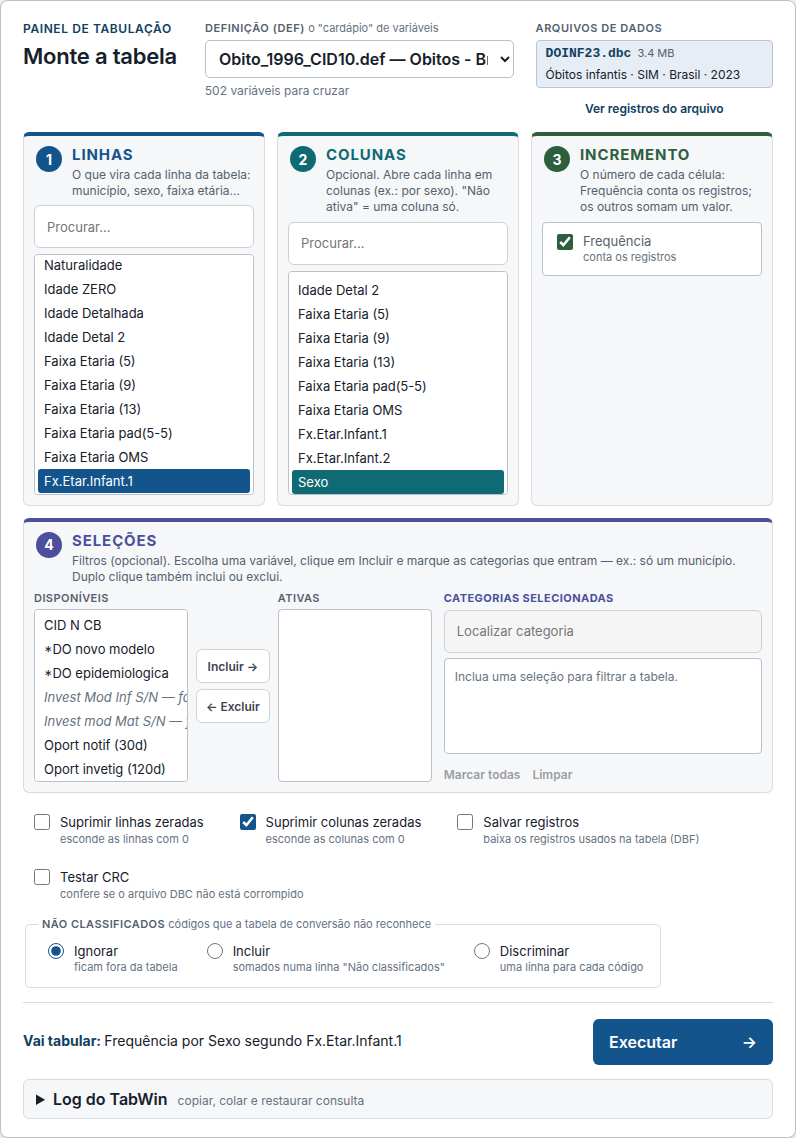
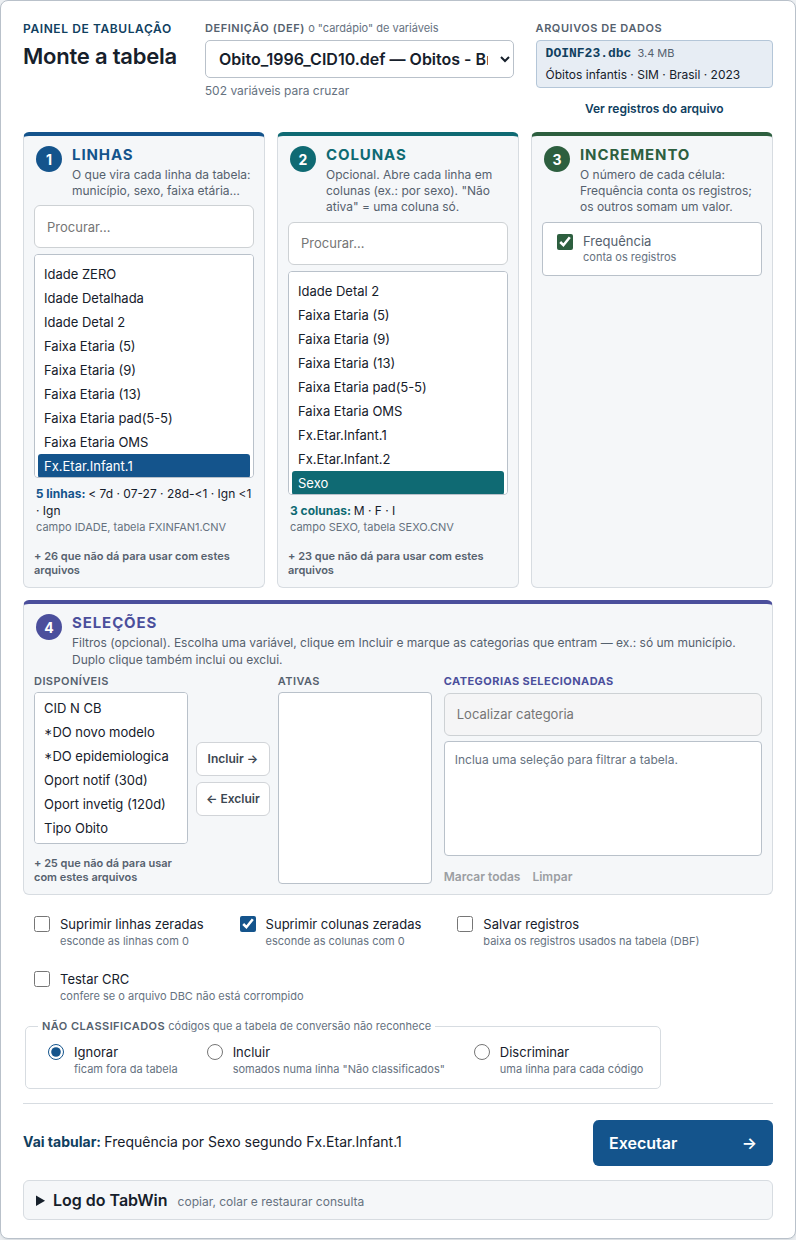
Painel mais claro: o que cada opção vira, sem as indisponíveis no meio
- Embaixo de Linhas e Colunas, as categorias que a escolha gera ("5
  linhas: < 7d · 07-27 · 28d-<1 …", campo IDADE, tabela FXINFAN1.CNV):
  nomes do DEF como "Fx.Etar.Infant.1" ou "Oport invetig (120d)" não
  diziam nada a quem nunca os viu.
- Passar o mouse sobre uma opção mostra o mesmo (amostra guardada por
  tabela, para não pesar a cada CNV que chega).
- Opções que não dá para usar com os arquivos abertos saem das listas
  (Linhas, Colunas, Seleções); "+ N que não dá para usar" mostra, num
  grupo no fim, quais são e por quê.
- Manual e figuras atualizados; as capturas esperam as CNVs terminarem.

diff --git a/apps/web/src/painel-ui.ts b/apps/web/src/painel-ui.ts
@@ -166,6 +166,21 @@ export function criarPainel(raiz: HTMLElement, deps: PainelDeps): Painel {
   const colunasBusca = el('input', { type: 'search', className: 'painel-busca', placeholder: 'Procurar…', ariaLabel: 'Procurar nas colunas' });
   const colunasLista = el('select', { id: 'painel-colunas', size: 9, ariaLabel: 'Colunas' });
   const incrementosLista = el('div', { id: 'painel-incrementos', className: 'painel-checklist', role: 'group', ariaLabel: 'Incremento' });
+  // Embaixo de Linhas e Colunas: o que a escolha vai virar ("5 linhas: < 7d ·
+  // 07-27 · …"). Um nome do DEF como "Fx.Etar.Infant.1" não diz nada a quem
+  // nunca o viu; as categorias dizem.
+  const previaLinhas = el('p', { className: 'painel-previa', id: 'painel-previa-linhas', ariaLive: 'polite' });
+  const previaColunas = el('p', { className: 'painel-previa', id: 'painel-previa-colunas', ariaLive: 'polite' });
+  /**
+   * Opções que não dá para usar com estes arquivos (campo que não existe, CNV
+   * que não foi aberta) ficam fora das listas até a pessoa pedir: misturadas,
+   * em cinza e com o motivo cortado, só confundiam.
+   */
+  let mostrarIndisponiveis = false;
+  const botaoIndisponiveis = (): HTMLButtonElement => el('button', { type: 'button', className: 'text-button painel-indisponiveis' });
+  const indisponiveisLinhas = botaoIndisponiveis();
+  const indisponiveisColunas = botaoIndisponiveis();
+  const indisponiveisSelecoes = botaoIndisponiveis();
 
   const disponiveisLista = el('select', { id: 'painel-selecoes-disponiveis', size: 6, ariaLabel: 'Seleções disponíveis' });
   const ativasLista = el('select', { id: 'painel-selecoes-ativas', size: 6, ariaLabel: 'Seleções ativas' });
@@ -215,15 +230,15 @@ export function criarPainel(raiz: HTMLElement, deps: PainelDeps): Painel {
   );
 
   const linhas = bloco('1', 'Linhas', 'O que vira cada linha da tabela: município, sexo, faixa etária…', 'linhas');
-  linhas.corpo.append(linhasBusca, linhasLista);
+  linhas.corpo.append(linhasBusca, linhasLista, previaLinhas, indisponiveisLinhas);
   const colunas = bloco('2', 'Colunas', 'Opcional. Abre cada linha em colunas (ex.: por sexo). "Não ativa" = uma coluna só.', 'colunas');
-  colunas.corpo.append(colunasBusca, colunasLista);
+  colunas.corpo.append(colunasBusca, colunasLista, previaColunas, indisponiveisColunas);
   const incremento = bloco('3', 'Incremento', 'O número de cada célula: Frequência conta os registros; os outros somam um valor.', 'incremento');
   incremento.corpo.append(incrementosLista);
   const selecoes = bloco('4', 'Seleções', 'Filtros (opcional). Escolha uma variável, clique em Incluir e marque as categorias que entram — ex.: só um município. Duplo clique também inclui ou exclui.', 'selecoes');
   selecoes.corpo.append(
     el('div', { className: 'painel-selecoes-grade' },
-      el('label', { className: 'painel-sublista' }, el('span', {}, 'Disponíveis'), disponiveisLista),
+      el('div', { className: 'painel-sublista' }, el('label', { htmlFor: 'painel-selecoes-disponiveis' }, 'Disponíveis'), disponiveisLista, indisponiveisSelecoes),
       el('div', { className: 'painel-selecoes-botoes' }, incluirBotao, excluirBotao),
       el('label', { className: 'painel-sublista' }, el('span', {}, 'Ativas'), ativasLista),
     ),
@@ -300,18 +315,83 @@ export function criarPainel(raiz: HTMLElement, deps: PainelDeps): Painel {
     return eixo.disponivel ? eixo.label : `${eixo.label} — ${eixo.motivo ?? 'indisponível'}`;
   }
 
-  function preencherLista(lista: HTMLSelectElement, eixos: readonly PainelEixo[], escolhido: string | null, filtro: string, naoAtiva = false): void {
+  /** O botão que mostra ou esconde as indisponíveis de uma lista. */
+  function rotularIndisponiveis(botao: HTMLButtonElement, quantas: number): void {
+    botao.hidden = quantas === 0;
+    botao.textContent = mostrarIndisponiveis
+      ? 'Esconder as que não dá para usar'
+      : `+ ${quantas} que não dá para usar com estes arquivos`;
+    botao.title = 'Variáveis do DEF cujo campo não existe nestes arquivos, ou cuja tabela de conversão (CNV) não foi aberta';
+  }
+
+  function preencherLista(lista: HTMLSelectElement, eixos: readonly PainelEixo[], escolhido: string | null, filtro: string, naoAtiva = false, botao?: HTMLButtonElement): void {
     const termo = semAcento(filtro.trim());
     lista.replaceChildren();
     if (naoAtiva) lista.add(new Option('Não ativa', '', false, escolhido === null));
+    const fora: PainelEixo[] = [];
     for (const eixo of eixos) {
       const visivel = !termo || semAcento(`${eixo.label} ${eixo.field}`).includes(termo) || eixo.id === escolhido;
       if (!visivel) continue;
-      const option = new Option(rotuloOpcao(eixo), eixo.id, false, eixo.id === escolhido);
-      option.disabled = !eixo.disponivel;
-      option.title = [eixo.field, eixo.resourceFile, eixo.motivo].filter(Boolean).join(' · ');
+      if (!eixo.disponivel) { fora.push(eixo); continue; }
+      const option = new Option(eixo.label, eixo.id, false, eixo.id === escolhido);
+      // Passar o mouse diz o que a opção é: as categorias que ela gera
+      // ("Oport invetig (120d)" → "Até 120 dias (invest oportuna) · 121 a 150 dias…").
+      option.title = dicaDaOpcao(eixo);
       lista.add(option);
     }
+    // As indisponíveis, quando pedidas, vão juntas no fim, num grupo com nome.
+    if (mostrarIndisponiveis && fora.length) {
+      const grupo = document.createElement('optgroup');
+      grupo.label = 'Não dá para usar com estes arquivos';
+      for (const eixo of fora) {
+        const option = new Option(rotuloOpcao(eixo), eixo.id);
+        option.disabled = true;
+        option.title = eixo.motivo ?? '';
+        grupo.append(option);
+      }
+      lista.append(grupo);
+    }
+    if (botao) rotularIndisponiveis(botao, fora.length);
+  }
+
+  /** Amostra de categorias por tabela (CNV ou DBF já lido), feita uma vez só. */
+  const amostras = new WeakMap<object, string>();
+
+  function dicaDaOpcao(eixo: PainelEixo): string {
+    const recurso = eixo.conversionId ? deps.conversoes().get(eixo.conversionId)
+      : eixo.lookupId ? deps.lookups().get(eixo.lookupId) : undefined;
+    let amostra = recurso ? amostras.get(recurso) : undefined;
+    if (amostra === undefined) {
+      amostra = amostraDe(eixo);
+      if (recurso) amostras.set(recurso, amostra);
+    }
+    const origem = [eixo.field && `campo ${eixo.field}`, eixo.resourceFile && `tabela ${eixo.resourceFile.replace(/\\/g, '/').split('/').pop()}`].filter(Boolean).join(', ');
+    return `${eixo.label}: ${amostra}${origem ? `\n${origem}` : ''}`;
+  }
+
+  function amostraDe(eixo: PainelEixo): string {
+    const categorias = categoriasDe(eixo);
+    return categorias?.length
+      ? `${categorias.slice(0, 5).map((categoria) => categoria.label.trim()).join(' · ')}${categorias.length > 5 ? ` … (${categorias.length.toLocaleString('pt-BR')} ao todo)` : ''}`
+      : 'um item para cada valor do campo';
+  }
+
+  /** "5 linhas: < 7d · 07-27 · 28d-<1 · Ign <1 · Ign", e de onde vêm. */
+  function renderPrevia(destino: HTMLElement, eixo: PainelEixo | undefined, papel: 'linhas' | 'colunas'): void {
+    destino.replaceChildren();
+    if (!eixo) {
+      destino.append(papel === 'colunas' ? 'Sem colunas: uma coluna só, com o total de cada linha.' : '');
+      return;
+    }
+    const categorias = categoriasDe(eixo);
+    const origem = [eixo.field && `campo ${eixo.field}`, eixo.resourceFile && `tabela ${eixo.resourceFile.replace(/\\/g, '/').split('/').pop()}`].filter(Boolean).join(', ');
+    if (categorias?.length) {
+      const amostra = categorias.slice(0, 6).map((categoria) => categoria.label.trim()).join(' · ');
+      destino.append(el('b', {}, `${categorias.length.toLocaleString('pt-BR')} ${papel}: `), amostra, categorias.length > 6 ? ' …' : '');
+    } else {
+      destino.append(el('b', {}, `Uma ${papel === 'linhas' ? 'linha' : 'coluna'} para cada valor`), ' que aparecer no arquivo');
+    }
+    if (origem) destino.append(el('small', {}, origem));
   }
 
   function renderDef(): void {
@@ -392,14 +472,7 @@ export function criarPainel(raiz: HTMLElement, deps: PainelDeps): Painel {
   function renderSelecoes(): void {
     if (!catalogo || !estado) return;
     const ativas = new Set(estado.selecoes.map((selecao) => selecao.eixo));
-    disponiveisLista.replaceChildren();
-    for (const eixo of catalogo.selecoes) {
-      if (ativas.has(eixo.id)) continue;
-      const option = new Option(rotuloOpcao(eixo), eixo.id);
-      option.disabled = !eixo.disponivel;
-      option.title = [eixo.field, eixo.resourceFile, eixo.motivo].filter(Boolean).join(' · ');
-      disponiveisLista.add(option);
-    }
+    preencherLista(disponiveisLista, catalogo.selecoes.filter((eixo) => !ativas.has(eixo.id)), null, '', false, indisponiveisSelecoes);
     ativasLista.replaceChildren();
     for (const selecao of estado.selecoes) {
       const eixo = catalogo.selecoes.find((item) => item.id === selecao.eixo);
@@ -495,8 +568,9 @@ export function criarPainel(raiz: HTMLElement, deps: PainelDeps): Painel {
       renderResumo();
       return;
     }
-    preencherLista(linhasLista, catalogo.linhas, estado.linha, linhasBusca.value);
-    preencherLista(colunasLista, catalogo.colunas, estado.coluna, colunasBusca.value, true);
+    preencherLista(linhasLista, catalogo.linhas, estado.linha, linhasBusca.value, false, indisponiveisLinhas);
+    preencherLista(colunasLista, catalogo.colunas, estado.coluna, colunasBusca.value, true, indisponiveisColunas);
+    renderPrevias();
     renderIncrementos();
     renderSelecoes();
     suprimirLinhas.checked = estado.suprimirLinhasZeradas;
@@ -505,6 +579,12 @@ export function criarPainel(raiz: HTMLElement, deps: PainelDeps): Painel {
     naoClassIncluir.checked = estado.naoClassificados === 'incluir';
     naoClassDiscriminar.checked = estado.naoClassificados === 'discriminar';
     renderResumo();
+  }
+
+  function renderPrevias(): void {
+    if (!catalogo || !estado) return;
+    renderPrevia(previaLinhas, catalogo.linhas.find((eixo) => eixo.id === estado!.linha), 'linhas');
+    renderPrevia(previaColunas, catalogo.colunas.find((eixo) => eixo.id === estado!.coluna), 'colunas');
   }
 
   function existe(lista: readonly PainelEixo[], id: string | null): boolean {
@@ -544,16 +624,24 @@ export function criarPainel(raiz: HTMLElement, deps: PainelDeps): Painel {
     if ((evento.target as HTMLElement).closest('.painel-selecoes-botoes, .painel-categorias-acoes')) tocado = true;
   });
   defSelect.addEventListener('change', () => { tocado = false; deps.escolherDef(defSelect.value); });
-  linhasBusca.addEventListener('input', () => catalogo && estado && preencherLista(linhasLista, catalogo.linhas, estado.linha, linhasBusca.value));
-  colunasBusca.addEventListener('input', () => catalogo && estado && preencherLista(colunasLista, catalogo.colunas, estado.coluna, colunasBusca.value, true));
+  linhasBusca.addEventListener('input', () => catalogo && estado && preencherLista(linhasLista, catalogo.linhas, estado.linha, linhasBusca.value, false, indisponiveisLinhas));
+  colunasBusca.addEventListener('input', () => catalogo && estado && preencherLista(colunasLista, catalogo.colunas, estado.coluna, colunasBusca.value, true, indisponiveisColunas));
+  for (const botao of [indisponiveisLinhas, indisponiveisColunas, indisponiveisSelecoes]) {
+    botao.addEventListener('click', () => {
+      mostrarIndisponiveis = !mostrarIndisponiveis;
+      renderTudo();
+    });
+  }
   linhasLista.addEventListener('change', () => {
     if (!estado || !linhasLista.value) return;
     estado.linha = linhasLista.value;
+    renderPrevias();
     renderResumo();
   });
   colunasLista.addEventListener('change', () => {
     if (!estado) return;
     estado.coluna = colunasLista.value || null;
+    renderPrevias();
     renderResumo();
   });
 

diff --git a/apps/web/src/styles.css b/apps/web/src/styles.css
@@ -803,6 +803,13 @@ dialog p { color: #676d74; font-size: 13px; line-height: 1.6; }
 .painel-bloco h3 { margin: 0; color: var(--tom); font: 700 15px/1.2 var(--sans); text-transform: uppercase; letter-spacing: .06em; }
 .painel-bloco-cabecalho p { margin: 3px 0 0; color: var(--muted); font-size: 12px; line-height: 1.35; }
 .painel-bloco-corpo { display: flex; flex-direction: column; gap: 6px; padding: 0 10px 10px; flex: 1 1 auto; min-height: 0; }
+/* O que a escolha vai virar, embaixo da lista. */
+.painel-previa { margin: 2px 2px 0; color: var(--ink); font-size: 12px; line-height: 1.4; overflow-wrap: anywhere; }
+.painel-previa b { color: var(--tom); font-weight: 700; }
+.painel-previa small { display: block; color: var(--faint); font-size: 11px; }
+.painel-previa:empty { display: none; }
+.painel-indisponiveis { align-self: flex-start; padding: 0; font-size: 11px; color: var(--muted); text-align: left; }
+.painel-bloco select optgroup { color: var(--faint); font-style: normal; font-size: 11px; }
 .painel-busca { width: 100%; min-height: 32px; padding: 5px 8px; border: 1px solid var(--line-strong); border-radius: 4px; background: var(--surface); font-size: 13px; }
 .painel-bloco select { width: 100%; flex: 1 1 auto; min-height: 190px; padding: 3px; border: 1px solid var(--line-strong); border-radius: 4px; background: var(--surface); color: var(--ink); font-size: 13px; }
 .painel-bloco select option { padding: 4px 6px; border-radius: 3px; }
@@ -815,7 +822,7 @@ dialog p { color: #676d74; font-size: 13px; line-height: 1.6; }
 .painel-checklist input { margin-top: 2px; accent-color: var(--tom); }
 .painel-selecoes-grade { display: grid; grid-template-columns: minmax(0, 1fr) auto minmax(0, 1fr); gap: 8px; align-items: stretch; }
 .painel-sublista { display: flex; flex-direction: column; gap: 4px; min-width: 0; }
-.painel-sublista > span { color: var(--muted); font-size: 11px; font-weight: 600; text-transform: uppercase; letter-spacing: .04em; }
+.painel-sublista > label, .painel-sublista > span { color: var(--muted); font-size: 11px; font-weight: 600; text-transform: uppercase; letter-spacing: .04em; }
 .painel-bloco--selecoes select { min-height: 128px; }
 .painel-selecoes-botoes { display: flex; flex-direction: column; justify-content: center; gap: 6px; }
 .painel-selecoes-botoes button { min-height: 34px; padding: 5px 9px; font-size: 12px; white-space: nowrap; }

diff --git a/docs/product/MANUAL_DO_USUARIO.md b/docs/product/MANUAL_DO_USUARIO.md
@@ -193,7 +193,7 @@ Instalação, endereços que ele pode acessar e modelo de ameaça estão em
 O **Painel de tabulação**, no topo da área principal, é o mesmo painel do
 TabWin, em quatro blocos numerados:
 
-![Painel de tabulação com o DEF de óbitos do SIM: Linhas em Fx.Etar.Infant.1, Colunas em Sexo, Incremento Frequência, Seleções vazias e as opções com uma frase cada](./manual/15-painel.png "O painel com o `Obito_1996_CID10.def` oficial e o DOINF23. Ao lado do arquivo, o que ele é; embaixo de cada opção, o que ela faz; e, antes de executar, a frase dizendo o que vai ser tabulado.")
+![Painel de tabulação com o DEF de óbitos do SIM: Linhas em Fx.Etar.Infant.1 (5 linhas: < 7d, 07-27, 28d-<1, Ign <1, Ign), Colunas em Sexo (M, F, I), Incremento Frequência e as opções com uma frase cada](./manual/15-painel.png "O painel com o `Obito_1996_CID10.def` oficial e o DOINF23. Embaixo de Linhas e Colunas, as categorias que a escolha vai virar; embaixo de cada opção, o que ela faz; e, antes de executar, a frase dizendo o que vai ser tabulado.")
 
 | Bloco | O que faz | Padrão (igual ao TabWin) |
 | --- | --- | --- |
@@ -204,8 +204,17 @@ TabWin, em quatro blocos numerados:
 
 As listas vêm do **DEF**, com os nomes exatamente como ele escreve e na ordem
 do arquivo. Escolha o DEF no seletor do alto do painel (cada um aparece com a
-sua descrição). Sem DEF, as listas mostram os campos do arquivo. Uma opção cuja
-CNV não foi carregada aparece em cinza, dizendo qual arquivo falta.
+sua descrição). Sem DEF, as listas mostram os campos do arquivo.
+
+Embaixo de **Linhas** e de **Colunas**, o painel mostra o que a escolha vai
+virar — *5 linhas: < 7d · 07-27 · 28d-<1 · Ign <1 · Ign*, do campo `IDADE`,
+tabela `FXINFAN1.CNV`. Um nome do DEF como *Fx.Etar.Infant.1* não diz nada a
+quem nunca o viu; as categorias dizem.
+
+As opções que não dá para usar com os arquivos abertos (o campo não existe
+neles, ou a CNV não foi aberta) ficam fora das listas. O link **+ N que não dá
+para usar com estes arquivos**, embaixo de cada lista, mostra quais são e por
+quê.
 
 Embaixo dos blocos, uma frase diz o que vai ser tabulado — *Frequência por
 Sexo segundo Fx.Etar.Infant.1* — antes de você clicar em **Executar**.
